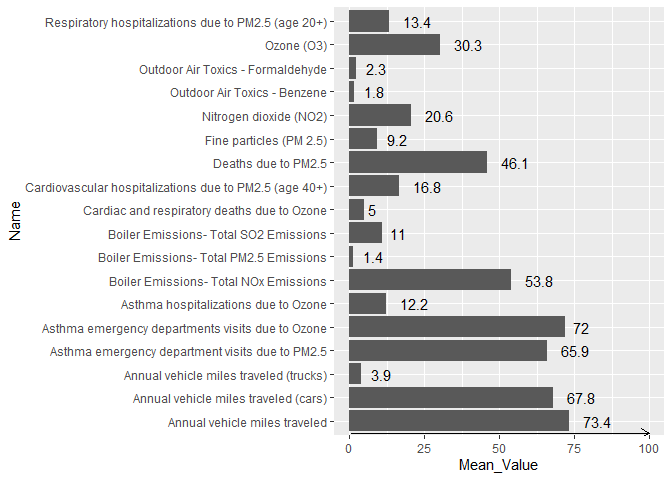
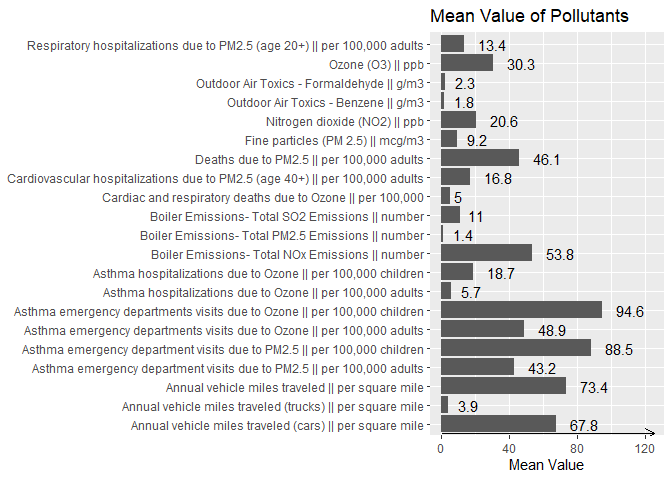
solution rework based on feedback

Changed region(s): [[0.0, 0.0, 0.9688, 1.0], [0.9375, 0.9062, 1.0, 0.9688], [0.0, 0.4062, 0.0312, 0.5]]

diff --git a/Projects/Yue_Z9/shad-lad-flad.md b/Projects/Yue_Z9/shad-lad-flad.md
@@ -1,55 +1,50 @@
-    library(tidyverse)
+  
 
-    ## ── Attaching core tidyverse packages ──────────────────────── tidyverse 2.0.0 ──
-    ## ✔ dplyr     1.1.4     ✔ readr     2.1.5
-    ## ✔ forcats   1.0.0     ✔ stringr   1.5.1
-    ## ✔ ggplot2   3.4.4     ✔ tibble    3.2.1
-    ## ✔ lubridate 1.9.3     ✔ tidyr     1.3.0
-    ## ✔ purrr     1.0.2     
-    ## ── Conflicts ────────────────────────────────────────── tidyverse_conflicts() ──
-    ## ✖ dplyr::filter() masks stats::filter()
-    ## ✖ dplyr::lag()    masks stats::lag()
-    ## ℹ Use the conflicted package (<http://conflicted.r-lib.org/>) to force all conflicts to become errors
-
-\#importing the data
+#### importing the data
 
     airquality <- read.csv("air_quality.csv")
 
-    #Task 1
+------------------------------------------------------------------------
 
-    #Grouping the different pollutants in "Name" and calculating the mean value for each one
+# Task 1
 
-    airquality %>%
+#### Grouping the different pollutants in “Name” and calculating the mean value for each one
+
+     airquality %>%
       select(Name,Measure,Measure.Info,Data.Value)%>% 
       group_by(Name) %>%
+      mutate(Measure.Info = gsub("\\?", "", Measure.Info)) %>%
+    #joining the Name and Measure.Info columns to display the units  
+      mutate(Name = paste(Name, Measure.Info, sep = " || ")) %>%         
     #using "summarise" instead of "mutate" here, so the values in the chart are displayed correctly.
-      summarise(mean_value = as.numeric(round(mean(Data.Value, na.rm = TRUE), digits = 1))) %>% 
+      summarise(mean_value =as.numeric(round(mean(Data.Value, na.rm = TRUE), digits = 1))) %>% 
+      ungroup() %>% 
+       
+    #Visualization of the Plot using "geom_bar()"
       
-    #tried to add a Letter to each Name for the legend here but it would not work so I commented it out. 
-      #mutate(Pollutant_Letter = LETTERS[1:n()]) %>%        
-      
-    #Visualization of the Plot using "geom_histogram()"
-      ggplot(aes(x = Name, y = mean_value  )) +
-      geom_histogram(stat = "identity") +         # adding "identity" so the graph displays at all
-      labs(x = "Name", y= "Mean_Value",) +
-      geom_text(aes(label = mean_value ), hjust = -0.5)+ 
-      geom_segment(aes(x = 0.5, y = 0.5, xend = 0.5, yend = 100), arrow = arrow(length = unit(0.1, "inches")) ) +
-      expand_limits(y = c(0, 100)) +              #adding a limit to the y axis so the text fits in
+      ggplot(aes(x = Name, y = mean_value)) +
+      geom_bar(stat = "identity") +         # adding "identity" so the graph displays at all
+      labs(title = "Mean Value of Pollutants",y= "Mean Value", x= NULL) +
+      geom_text(aes(label = mean_value, ), hjust = -0.5)+ 
+      geom_segment(aes(x = 0.5, y = 0.5, xend = 0.5, yend = 125), arrow = arrow(length = unit(0.1, "inches")) ) +
+      expand_limits(y = c(0, 120)) +              #adding a limit to the y axis so the text fits in
       coord_flip()                                # flipping the chart to fit in the names with the values
-
-    ## Warning in geom_histogram(stat = "identity"): Ignoring unknown parameters:
-    ## `binwidth`, `bins`, and `pad`
 
 ![](shad-lad-flad_files/figure-markdown_strict/unnamed-chunk-3-1.png)
 
-    # Since the Legend wouldn't build up like I intended to, I've decided to flip the chart in Order to make it more readable.
-    # I've attempted to add the units for each observation, but since I only got a good graph by using "summarise", I couldn't 
-    # use something like unite() to add the units to the names from the "Measure.Info" column
+    - Since the Legend wouldn't build up like I intended to, I've decided to flip the chart in Order to make it more readable.
 
-    #Task 2
+    - The units for each observation are displayed together with its Name and separated by "||".
 
-    #finding out which regions have the highest pollution on average for mcg/m^3 measurements
-    airquality %>%
+------------------------------------------------------------------------
+
+  
+
+# Task 2
+
+#### finding out which regions have the highest pollution on average for $\frac{\mu g}{m^3}$ measurements
+
+    top3_pollution <- airquality %>% 
       arrange(Name, Geo.Place.Name, Start_Date, Time.Period) %>%
       filter(Measure.Info == "mcg/m3") %>% 
       group_by(Geo.Place.Name) %>%
@@ -57,14 +52,27 @@
       arrange(desc(mean_value)) %>% 
       head(3) %>%
       ungroup() %>% 
-      view()
-      
-    #results show that "Midtown (CD5)","Gramercy Park - Murray Hill" and "Chelsea - Clinton" have the highest pollution on average.
+      print() 
 
-    #creating the time series for the top 3 areas mentioned above
+    ## # A tibble: 3 × 2
+    ##   Geo.Place.Name              mean_value
+    ##   <chr>                            <dbl>
+    ## 1 Midtown (CD5)                     13.1
+    ## 2 Gramercy Park - Murray Hill       12.1
+    ## 3 Chelsea - Clinton                 11.8
+
+##### Results show that the top 3 regions with the highest pollution on average are:
+
+-   Midtown (CD5)
+-   Gramercy Park - Murray Hill
+-   Chelsea - Clinton
+
+### creating the time series for the top 3 areas mentioned above
+
     airquality %>% 
       filter(Measure.Info == "mcg/m3") %>% 
-      filter(Geo.Place.Name == c("Midtown (CD5)","Gramercy Park - Murray Hill","Chelsea - Clinton")) %>%
+      inner_join(top3_pollution, by = c("Geo.Place.Name" = "Geo.Place.Name")) %>%
+      
       mutate(year = as.numeric(format(as.Date(Start_Date, format="%d/%m/%Y"), "%Y"))) %>%
       arrange(year, Geo.Place.Name) %>% 
       group_by(Geo.Place.Name) %>%
@@ -73,14 +81,12 @@
 
     ggplot(aes(x = year, y = Data.Value, color = Geo.Place.Name)) +
       geom_line() +
-      labs(title = "Top 3 polluted Areas on average", x = "Year", y = "Yearly Average Value (mcg/m3)") +
+      labs(title = "Top 3 polluted Areas on average", x = "Year", y = "Yearly Value (mcg/m3)") +
       theme_minimal() +
       scale_color_manual(values = c("Midtown (CD5)" = "red", "Gramercy Park - Murray Hill" = "blue", "Chelsea - Clinton" = "green")) +
       theme(legend.position = "right") +
       labs(color = "Regions") +
       scale_x_continuous(breaks = seq(2010, 2022, by = 2)) +
       scale_y_continuous(breaks = seq(0, 25, by = 2)) 
-
-    ## Warning: Removed 1 row containing missing values (`geom_line()`).
 
 ![](shad-lad-flad_files/figure-markdown_strict/unnamed-chunk-5-1.png)
